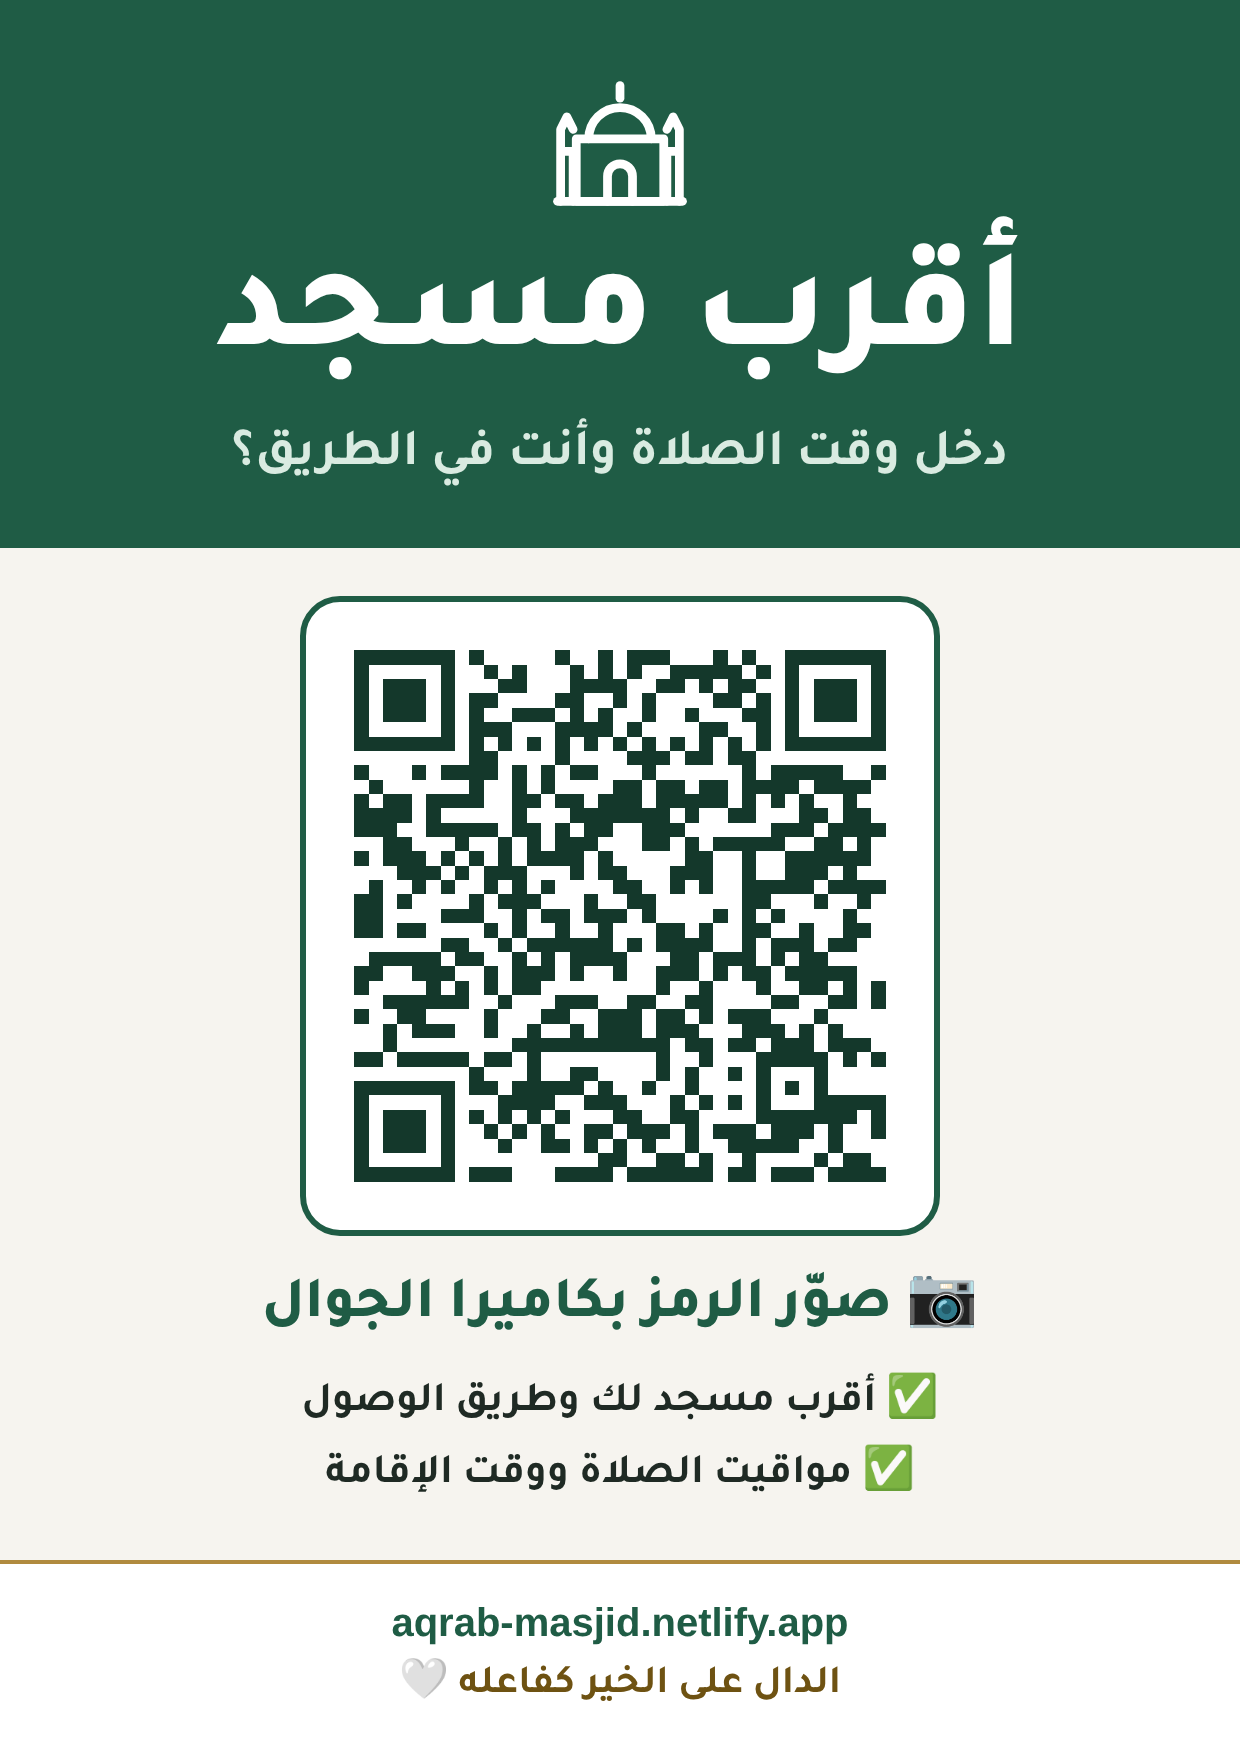
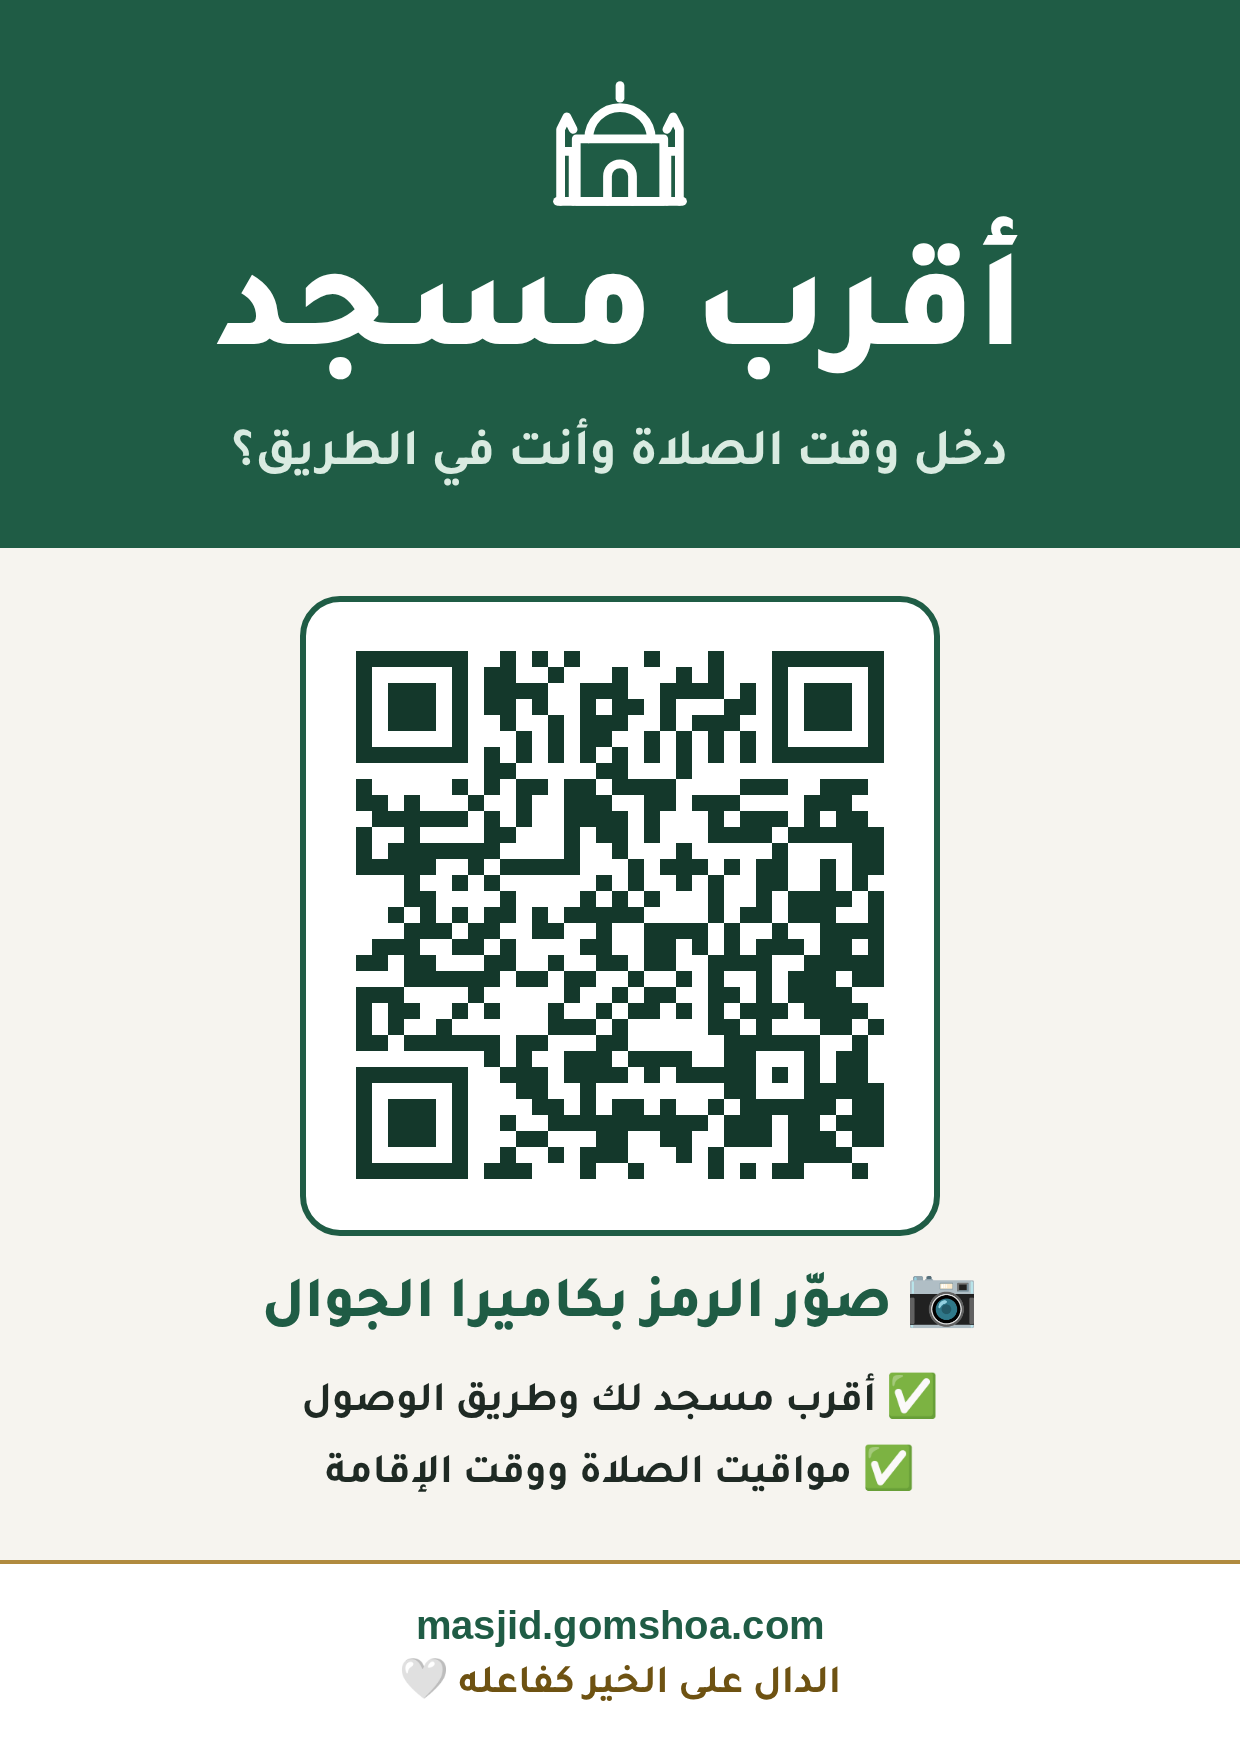
QR code and poster point to masjid.gomshoa.com; iPhone app links moved off Netlify
Claude-Session: https://claude.ai/code/session_014Mt9BqzBnxxRUnZSmq4Hhd

Changed region(s): [[0.2758, 0.3694, 0.7355, 0.6773], [0.3065, 0.8928, 0.6742, 0.9544]]

diff --git a/ios/AqrabMasjid/Config.swift b/ios/AqrabMasjid/Config.swift
@@ -2,15 +2,15 @@ import Foundation
 
 /// Change these links in one place (same as the Android app).
 enum Config {
-    static let siteURL = URL(string: "https://aqrab-masjid.netlify.app")!
+    static let siteURL = URL(string: "https://masjid.gomshoa.com")!
     /// Page where people suggest a missing mosque.
-    static let addMosqueURL = URL(string: "https://aqrab-masjid.netlify.app/#add")!
+    static let addMosqueURL = URL(string: "https://masjid.gomshoa.com/#add")!
     /// Donate opens the official Ehsan platform only. The app collects no money.
     static let donateURL = URL(string: "https://ehsan.sa")!
     /// قيراط: Riyadh funeral prayers and cemeteries (shown in Riyadh only).
     static let qiratURL = URL(string: "https://qirat.gomshoa.com")!
     /// Mosques you reviewed and added yourself. Format: [{"name":"مسجد ...","lat":24.7,"lng":46.6}]
-    static let customMosquesURL = URL(string: "https://aqrab-masjid.netlify.app/mosques.json")!
+    static let customMosquesURL = URL(string: "https://masjid.gomshoa.com/mosques.json")!
 
     static let overpassURLs = [
         "https://overpass-api.de/api/interpreter",

diff --git a/site/sw.js b/site/sw.js
@@ -1,4 +1,4 @@
-const C = "masjid-v42";
+const C = "masjid-v43";
 const FILES = ["/", "/icon-192.png", "/icon-512.png", "/manifest.webmanifest", "/adhan.js", "/qr.png"];
 self.addEventListener("install", e => { e.waitUntil(caches.open(C).then(c => c.addAll(FILES))); self.skipWaiting(); });
 self.addEventListener("activate", e => {
